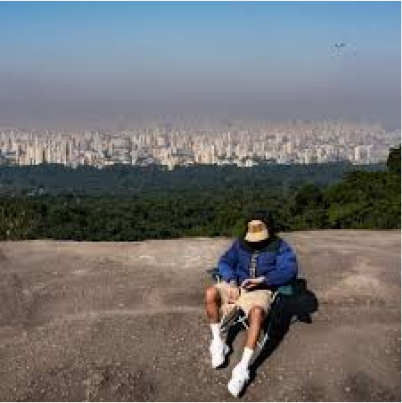
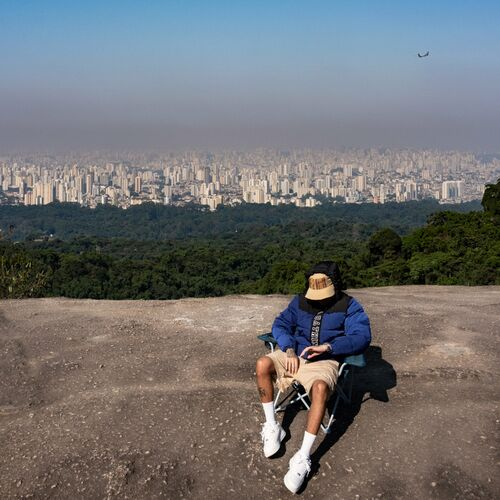
fix: image resolution && animation time

diff --git a/src/styles/carousel.css b/src/styles/carousel.css
@@ -10,7 +10,7 @@
   width: 200%; 
   display: flex;
   align-items: center; 
-  animation: scrollInfinito 20s linear infinite; 
+  animation: scrollInfinito 25s linear infinite; 
   position: relative; 
   top: 15%;
   left: 50%;
@@ -22,25 +22,36 @@
   width: 50%; 
   justify-content: center;
   transition: transform 0.3s ease;
-  gap: 50px   ;
+  gap: 50px;
 }
 
-.carousel-lista li  { 
+.carousel-lista li { 
   display: flex;
   flex-direction: column;
   align-items: center;
   gap: 10px;
-  transition: all 0.7s;
+  transition: all 0.3s ease; 
+  perspective: 800px; 
+  transform-style: preserve-3d;
+  & img {
+    width: 400px;
+    height: auto;
+  }
 }
 
-.carousel-lista li:hover {
-  transform: scale(1.08);
-  z-index: 1; 
+.carousel-lista li:hover { 
+  transform: translateZ(50px) rotateY(-10deg) scale(1.08); 
+  z-index: 1;
 }
 
-.carousel-lista:hover li:not(:hover) { 
-  transform: scale(0.90);
-  filter: brightness(0.5); 
+.carousel-lista:hover li:not(:hover) {
+  transform: translateZ(-50px) rotateY(10deg) scale(0.92);
+  filter: brightness(0.8);
+}
+
+.carousel-lista li img, 
+.carousel-lista li h3 {
+  transform: translateZ(20px); 
 }
 
 .carousel-lista li h3 {
